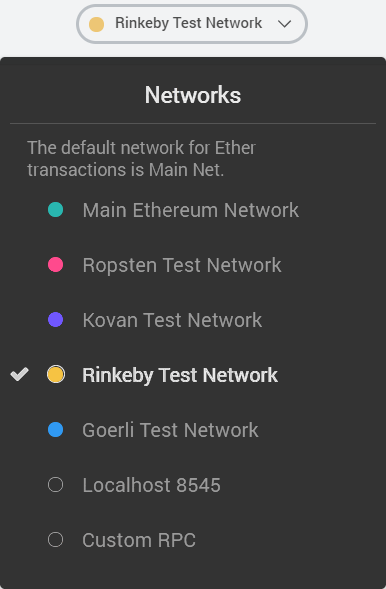
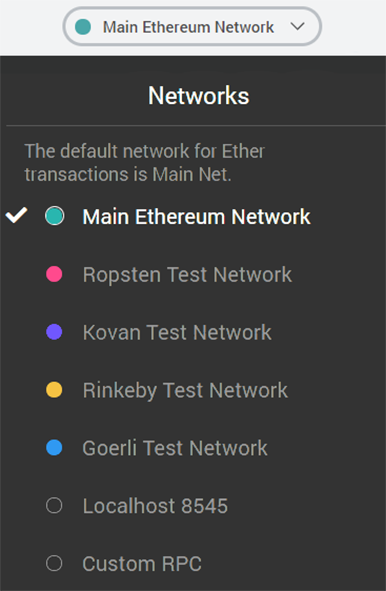
Updated metamask use instructions

diff --git a/components/MMPrompt.js b/components/MMPrompt.js
@@ -47,14 +47,14 @@ class MMPrompt extends React.Component {
           <Image size="medium" src="/static/images/metamask-network.png" />
           <Modal.Description>
             <p>
-              If you would like to interact with the Crypto Byte contract,
-              you'll need to have{' '}
+              If you would like to interact with the Crypto Byte Collectible
+              contract, you'll need to have{' '}
               <Link route="https://metamask.io/">
                 <a target="_blank"> MetaMask</a>
               </Link>{' '}
               installed in your browser.
               <br />
-              Then also make sure you're connected to the Rinkeby Test Net.
+              Then make sure you're connected to the Main Ethereum Network.
             </p>
           </Modal.Description>
         </Modal.Content>

diff --git a/pages/buy_tokens/721.js b/pages/buy_tokens/721.js
@@ -17,7 +17,9 @@ import { Router } from '../../routes';
 
 let headerEl, currentAccount;
 let priceETH = 0;
-let vikingAmount = process.env.VIKING_AMOUNT;
+let vikingAmount = Number(process.env.VIKING_AMOUNT);
+let specialEdition = Number(process.env.SPECIAL_EDITION);
+let specialTokens = vikingAmount + specialEdition;
 
 class BuyToken721 extends Component {
   state = {
@@ -111,7 +113,7 @@ class BuyToken721 extends Component {
                 </Segment>
                 <Message>
                   The ID of your newly created token will be{' '}
-                  <b>#{this.state.id - vikingAmount}</b>.
+                  <b>#{this.state.id - specialTokens}</b>.
                   <br />
                   Above image will be used to identify your token. If you'd like
                   to use a custom image, please contact us at{' '}

diff --git a/pages/token/index.js b/pages/token/index.js
@@ -14,6 +14,7 @@ import cryptoByte721 from '../../ethereum/cryptoByte721';
 import web3 from '../../ethereum/web3';
 import { Link, Router } from '../../routes';
 import axios from 'axios';
+import MMPrompt from '../../components/MMPrompt';
 
 let currentAccount, headerEl;
 let vikingAmount = Number(process.env.VIKING_AMOUNT);
@@ -97,6 +98,8 @@ class TokenDetails extends Component {
   render() {
     return (
       <Layout mounted={this.state.mounted}>
+        <MMPrompt />
+
         <Container
           textAlign="center"
           style={{
